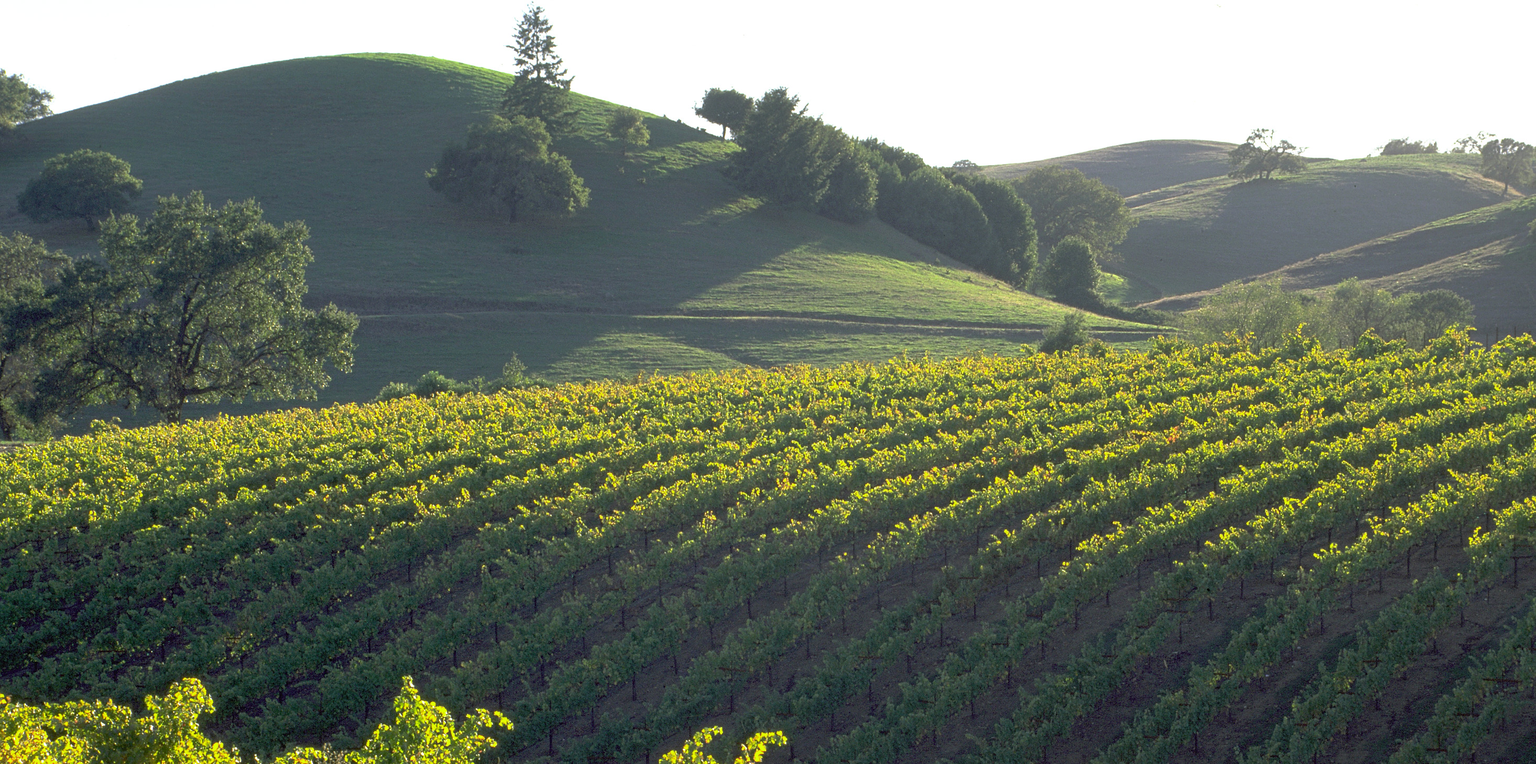
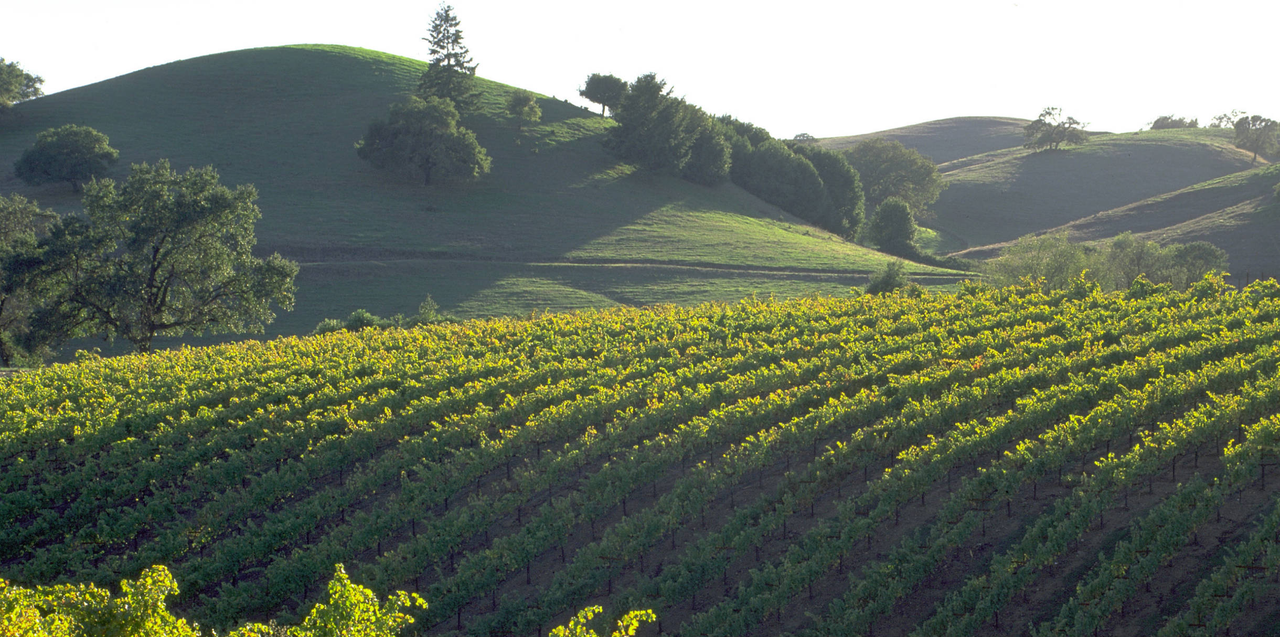
fix picture size, remove fb JS SDK

diff --git a/public/style.css b/public/style.css
@@ -14,7 +14,7 @@ p {
 	font-size: xx-large;
 }
 
-#fb_button {
+#sign-in_box {
 	text-align: center;
 	margin-left: 30%;
 	margin-right: 30%;

diff --git a/app.rb b/app.rb
@@ -1,5 +1,5 @@
 require 'sinatra'
-require 'sinatra/activerecord'  # required by gem sinatra/activerecord
+require 'sinatra/activerecord'
 
 require './user' 
 require './winery' 
@@ -14,16 +14,13 @@ end
 post '/' do
 
 	username = params[:username]
-	# session[:username] = @username
 	password = params[:password]
-	# p username, password
 	user = User.where(username: username, password: password)
 	p "user inspect:" + user.inspect
 
 	if user = User.authenticate(username,password)
 		session[:user] = user
 		p session[:user].inspect
-		# sess
 		redirect to('/home')
 	else 
 		redirect to('/')
